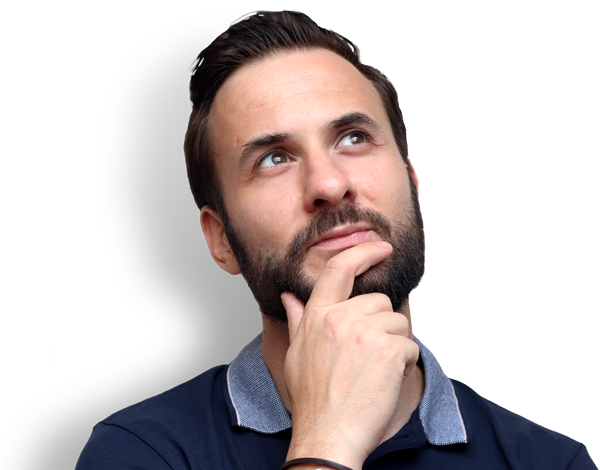
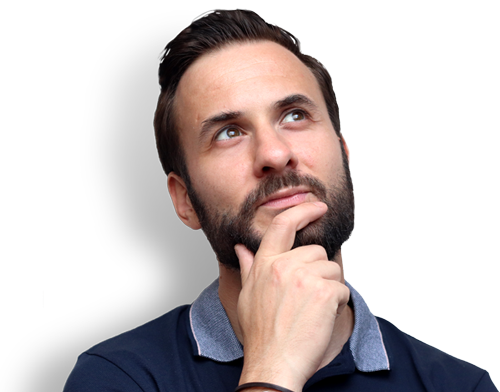
img optimization

diff --git a/src/datas/3d.projects.data.ts b/src/datas/3d.projects.data.ts
@@ -20,6 +20,23 @@ import ImgPortfolio014 from '~/assets/medias/portfolio/19-1-tomates-2014.jpg'
 import ImgPortfolio015 from '~/assets/medias/portfolio/21-Lego-Minions-2016.jpg'
 import ImgPortfolio016 from '~/assets/medias/portfolio/22-1-Extraterrestre-2016.jpg'
 
+import ImgPortfolio001Thumb from '~/assets/medias/portfolio/1-1-escart-wild-2015-min.jpg'
+import ImgPortfolio002Thumb from '~/assets/medias/portfolio/2-1-bibopp-2015-min.jpg'
+import ImgPortfolio003Thumb from '~/assets/medias/portfolio/4-1-gorgotte-2015-min.jpg'
+import ImgPortfolio004Thumb from '~/assets/medias/portfolio/5-1-auto-portrait-pixmodels-2014-min.jpg'
+import ImgPortfolio005Thumb from '~/assets/medias/portfolio/6-1-immeuble-2015-min.jpg'
+import ImgPortfolio006Thumb from '~/assets/medias/portfolio/7-1-maison-moderne-2014-min.jpg'
+import ImgPortfolio007Thumb from '~/assets/medias/portfolio/9-2-salon-decoration1-nuit-2015-min.jpg'
+import ImgPortfolio008Thumb from '~/assets/medias/portfolio/10-2-chambre-decoration-jour-2015-min.jpg'
+import ImgPortfolio009Thumb from '~/assets/medias/portfolio/12-3-salon-decoration1-jour-2015-min.jpg'
+import ImgPortfolio010Thumb from '~/assets/medias/portfolio/13-1-ampoule-2014-min.jpg'
+import ImgPortfolio011Thumb from '~/assets/medias/portfolio/14-1-canette-de-soda-2014-min.jpg'
+import ImgPortfolio012Thumb from '~/assets/medias/portfolio/17-1-Interieur-blanc-2014-min.jpg'
+import ImgPortfolio013Thumb from '~/assets/medias/portfolio/18-1-herbe-realiste-2014.jpg'
+import ImgPortfolio014Thumb from '~/assets/medias/portfolio/19-1-tomates-2014-min.jpg'
+import ImgPortfolio015Thumb from '~/assets/medias/portfolio/21-Lego-Minions-2016-min.jpg'
+import ImgPortfolio016Thumb from '~/assets/medias/portfolio/22-1-Extraterrestre-2016-min.jpg'
+
 
 import { SliderImageData, PortfolioData, StackType, SpecialityData } from '~/interfaces/Data.intf'
 import { getStack } from '~/utils/stackUtils'
@@ -60,7 +77,7 @@ export const PortfolioImagesData: PortfolioData[] = [
     id: '001',
     title: 'escart wild',
     imgFile: ImgPortfolio001,
-    imgFileThumb: ImgPortfolio001,
+    imgFileThumb: ImgPortfolio001Thumb,
     imgAlt: 'escargot cartoon photo-réaliste',
     released: new Date('2014-01-01'),
     stack: [
@@ -74,7 +91,7 @@ export const PortfolioImagesData: PortfolioData[] = [
     id: '002',
     title: 'beebop',
     imgFile: ImgPortfolio002,
-    imgFileThumb: ImgPortfolio002,
+    imgFileThumb: ImgPortfolio002Thumb,
     imgAlt: 'robot Beebop',
     released: new Date('2014-01-01'),
     stack: [
@@ -88,7 +105,7 @@ export const PortfolioImagesData: PortfolioData[] = [
     id: '003',
     title: 'gorgotte',
     imgFile: ImgPortfolio003,
-    imgFileThumb: ImgPortfolio003,
+    imgFileThumb: ImgPortfolio003Thumb,
     imgAlt: 'monstre 3d',
     released: new Date('2015-01-01'),
     stack: [
@@ -101,7 +118,7 @@ export const PortfolioImagesData: PortfolioData[] = [
     id: '004',
     title: 'caricature',
     imgFile: ImgPortfolio004,
-    imgFileThumb: ImgPortfolio004,
+    imgFileThumb: ImgPortfolio004Thumb,
     imgAlt: 'caricature stéphane lieumont',
     released: new Date('2015-01-01'),
     stack: [
@@ -115,7 +132,7 @@ export const PortfolioImagesData: PortfolioData[] = [
     id: '005',
     title: 'immeuble',
     imgFile: ImgPortfolio005,
-    imgFileThumb: ImgPortfolio005,
+    imgFileThumb: ImgPortfolio005Thumb,
     imgAlt: 'imeuble photo-réaliste',
     released: new Date('2014-01-01'),
     stack: [
@@ -127,7 +144,7 @@ export const PortfolioImagesData: PortfolioData[] = [
     id: '006',
     title: 'maison moderne',
     imgFile: ImgPortfolio006,
-    imgFileThumb: ImgPortfolio006,
+    imgFileThumb: ImgPortfolio006Thumb,
     imgAlt: 'maison moderne',
     released: new Date('2015-01-01'),
     stack: [
@@ -139,7 +156,7 @@ export const PortfolioImagesData: PortfolioData[] = [
     id: '007',
     title: 'architecture d\'intérieur salon',
     imgFile: ImgPortfolio007,
-    imgFileThumb: ImgPortfolio007,
+    imgFileThumb: ImgPortfolio007Thumb,
     imgAlt: 'architecture d\'intérieur salon',
     released: new Date('2014-01-01'),
     stack: [
@@ -151,7 +168,7 @@ export const PortfolioImagesData: PortfolioData[] = [
     id: '008',
     title: 'architecture d\'intérieur chambre',
     imgFile: ImgPortfolio008,
-    imgFileThumb: ImgPortfolio008,
+    imgFileThumb: ImgPortfolio008Thumb,
     imgAlt: 'architecture d\'intérieur chambre',
     released: new Date('2014-01-01'),
     stack: [
@@ -163,7 +180,7 @@ export const PortfolioImagesData: PortfolioData[] = [
     id: '009',
     title: 'architecture d\'intérieur salon',
     imgFile: ImgPortfolio009,
-    imgFileThumb: ImgPortfolio009,
+    imgFileThumb: ImgPortfolio009Thumb,
     imgAlt: 'architecture d\'intérieur salon',
     released: new Date('2014-01-01'),
     stack: [
@@ -175,7 +192,7 @@ export const PortfolioImagesData: PortfolioData[] = [
     id: '010',
     title: 'ampoule',
     imgFile: ImgPortfolio010,
-    imgFileThumb: ImgPortfolio010,
+    imgFileThumb: ImgPortfolio010Thumb,
     imgAlt: 'ampoule photo-réaliste',
     released: new Date('2014-01-01'),
     stack: [
@@ -187,7 +204,7 @@ export const PortfolioImagesData: PortfolioData[] = [
     id: '011',
     title: 'support marketing',
     imgFile: ImgPortfolio011,
-    imgFileThumb: ImgPortfolio011,
+    imgFileThumb: ImgPortfolio011Thumb,
     imgAlt: 'canette pixmodels',
     released: new Date('2015-01-01'),
     stack: [
@@ -200,7 +217,7 @@ export const PortfolioImagesData: PortfolioData[] = [
     id: '012',
     title: 'architecture d\'intérieur entrée',
     imgFile: ImgPortfolio012,
-    imgFileThumb: ImgPortfolio012,
+    imgFileThumb: ImgPortfolio012Thumb,
     imgAlt: 'architecture d\'intérieur entrée',
     released: new Date('2014-01-01'),
     stack: [
@@ -212,7 +229,7 @@ export const PortfolioImagesData: PortfolioData[] = [
     id: '013',
     title: 'exterieur',
     imgFile: ImgPortfolio013,
-    imgFileThumb: ImgPortfolio013,
+    imgFileThumb: ImgPortfolio013Thumb,
     imgAlt: 'exterieur photo-réalise',
     released: new Date('2015-01-01'),
     stack: [
@@ -225,7 +242,7 @@ export const PortfolioImagesData: PortfolioData[] = [
     id: '014',
     title: 'tomates',
     imgFile: ImgPortfolio014,
-    imgFileThumb: ImgPortfolio014,
+    imgFileThumb: ImgPortfolio014Thumb,
     imgAlt: 'tomates photo-réaliste',
     released: new Date('2014-01-01'),
     stack: [
@@ -238,7 +255,7 @@ export const PortfolioImagesData: PortfolioData[] = [
     id: '015',
     title: 'légos : les minions',
     imgFile: ImgPortfolio015,
-    imgFileThumb: ImgPortfolio015,
+    imgFileThumb: ImgPortfolio015Thumb,
     imgAlt: 'légos : les minions',
     released: new Date('2015-01-01'),
     stack: [
@@ -252,7 +269,7 @@ export const PortfolioImagesData: PortfolioData[] = [
     id: '016',
     title: 'extraterrestre',
     imgFile: ImgPortfolio016,
-    imgFileThumb: ImgPortfolio016,
+    imgFileThumb: ImgPortfolio016Thumb,
     imgAlt: 'extraterrestre CGI',
     released: new Date('2016-01-01'),
     stack: [

diff --git a/src/components/Gallery/index.tsx b/src/components/Gallery/index.tsx
@@ -1,4 +1,4 @@
-import { createRef, FunctionComponent, MouseEvent, SyntheticEvent, useMemo, useState } from 'react';
+import { createRef, Fragment, FunctionComponent, MouseEvent, SyntheticEvent, useMemo, useState } from 'react';
 import { GalleryProps } from '~/interfaces/Component.intf';
 import { PortfolioData } from '~/interfaces/Data.intf';
 import { firstLetterUpper } from '~/utils/formatString';
@@ -6,7 +6,7 @@ import './style.scss';
 
 
 
-const Gallery: FunctionComponent<GalleryProps> = ({portfolioData = [], onClick}) => { 
+const Gallery: FunctionComponent<GalleryProps> = ({portfolioData = [], visible = true, onClick}) => { 
   let [imageLoadCounter, setImageLoadCounter] = useState<number>(0)
   const [displayLoader, setDisplayLoader] = useState<boolean>(true)
   
@@ -47,18 +47,22 @@ const Gallery: FunctionComponent<GalleryProps> = ({portfolioData = [], onClick})
                 'gallery__grid__item--single '
               }`}      
             >
-            <img className='loading' src={imageData.imgFileThumb} alt={imageData.imgAlt} ref={refsById[imageData.id]} onLoad={handleLoadImage} />
-            <div className='gallery__grid__item__desc loading'>
-              <h4>{ firstLetterUpper(imageData.title) }</h4>
-              <p>{ imageData.released.getFullYear() }</p>
-              <ul className='icon-custom__list'>
-                { imageData.stack.map((stackItem) => (
-                  <li key={stackItem.toString} className="icon-custom">
-                    <i className={`icon-custom__container ${ stackItem.iconClass }`}></i>
-                  </li>
-                ))}
-              </ul>           
-            </div>
+            { visible && (
+              <Fragment>
+                <img className='loading' src={imageData.imgFileThumb} alt={imageData.imgAlt} ref={refsById[imageData.id]} onLoad={handleLoadImage} />
+                <div className='gallery__grid__item__desc loading'>
+                  <h4>{ firstLetterUpper(imageData.title) }</h4>
+                  <p>{ imageData.released.getFullYear() }</p>
+                  <ul className='icon-custom__list'>
+                    { imageData.stack.map((stackItem) => (
+                      <li key={stackItem.toString} className="icon-custom">
+                        <i className={`icon-custom__container ${ stackItem.iconClass }`}></i>
+                      </li>
+                    ))}
+                  </ul>           
+                </div>
+              </Fragment>
+            )}
           </div>
         ))}
       </div>

diff --git a/src/pages/Contact/index.tsx b/src/pages/Contact/index.tsx
@@ -1,8 +1,9 @@
 import { faLocation, faPhone } from '@fortawesome/free-solid-svg-icons';
 import { FontAwesomeIcon } from '@fortawesome/react-fontawesome';
-import { FunctionComponent, MouseEvent, useEffect, useState } from 'react';
+import { FunctionComponent, MouseEvent, useEffect, useState, useRef } from 'react';
 import Button from '~/components/Button';
 import Input from '~/components/Input';
+import useWindowSize from '~/hooks/useWindowsSize';
 import { PageProps } from '~/interfaces/Component.intf';
 import { HTMLFormType } from '~/interfaces/Forms.intf';
 import { FormContactActions } from '~/store/formContact.store';
@@ -13,16 +14,23 @@ import './style.scss'
 
 const Contact: FunctionComponent<PageProps> = ({ title = 'titre de la page' }) => {
   const [imgLoaded, setImgLoaded] = useState<boolean>(false)
-
-  useEffect(() => {
-    document.title = title
-  })
+  const currentPage = useRef<HTMLDivElement>(null)
 
   const formInputName = useAppSelector((state) => state.formContactSlice.formInputName )
   const formInputEmail = useAppSelector((state) => state.formContactSlice.formInputEmail )
   const formInputMessage = useAppSelector((state) => state.formContactSlice.formInputMessage )
 
+  const windowSize = useWindowSize()
+
   const dispatch = useAppDispatch()
+
+  useEffect(() => {
+    document.title = title
+  })
+
+  useEffect(() => {
+    document.body.style.height = `${ currentPage.current?.getBoundingClientRect().height }px`
+  }, [windowSize.height]);
 
   const checkFormNoErrors = (): boolean => {
     return (
@@ -46,7 +54,7 @@ const Contact: FunctionComponent<PageProps> = ({ title = 'titre de la page' }) =
   }
 
   return (
-    <div className={`contact`}>
+    <div ref={currentPage} className={`contact`}>
       <div className='contact__content'>
         <p>
           Un projet, une question où juste un Hello World ?

diff --git a/src/pages/PortfolioCGI/index.tsx b/src/pages/PortfolioCGI/index.tsx
@@ -89,9 +89,9 @@ const PortfolioCGI: React.FunctionComponent<PageProps> = ({title = 'titre de la 
                 </div>       
               </section>
               <section ref={sectionPortfolio} className='section portfolio-cgi__projects'>
-                <div className='section__content--fullwidth'>
+                <div className='section__content section__content--fullwidth'>
                   <h2 className={`display1 reveal${ appearSectionPortfolio ? ' reveal--0' : '' }`}><span>Réalisations</span></h2>
-                  <Gallery portfolioData={ PortfolioImagesData } onClick={ (imageData) => handleGalleryImageOnClick(imageData) } />          
+                  <Gallery portfolioData={ PortfolioImagesData } onClick={ (imageData) => handleGalleryImageOnClick(imageData) } visible={appearSectionPortfolio} />          
                 </div>          
               </section>
               <Footer />      

diff --git a/src/pages/Home/index.tsx b/src/pages/Home/index.tsx
@@ -94,7 +94,7 @@ const Home: FunctionComponent<PageProps> = ({title = 'titre de la page'}) => {
           />
         ) : null}
         <div className='homepage__rigthside__demo-real'></div>
-        <img className={!imgLoaded ? 'loading' : '' } width={600} height={470} onLoad={() => setImgLoaded(true) } src={require('~/assets/profile/profil-stephane-lieumont.png')} alt='profil stéphane lieumont' />
+        <img className={!imgLoaded ? 'loading' : '' } width={600} height={470} onLoad={() => setImgLoaded(true) } src={require('~/assets/profile/profil-stephane-lieumont-min.png')} alt='profil stéphane lieumont' />
       </div>
     </div>
   );

diff --git a/src/interfaces/Component.intf.ts b/src/interfaces/Component.intf.ts
@@ -35,6 +35,7 @@ export type CarouselProps = {
 
 export type GalleryProps = {
   portfolioData?: PortfolioData[], 
+  visible?: boolean,
   onClick?: (imageData: PortfolioData) => void
 }
 

diff --git a/src/sass/base/_base.scss b/src/sass/base/_base.scss
@@ -95,6 +95,7 @@ body {
         padding-right: 0;
         margin-left:0;
         margin-right: 0;
+        margin-bottom: 0;
         text-align: center;
       }
     }
